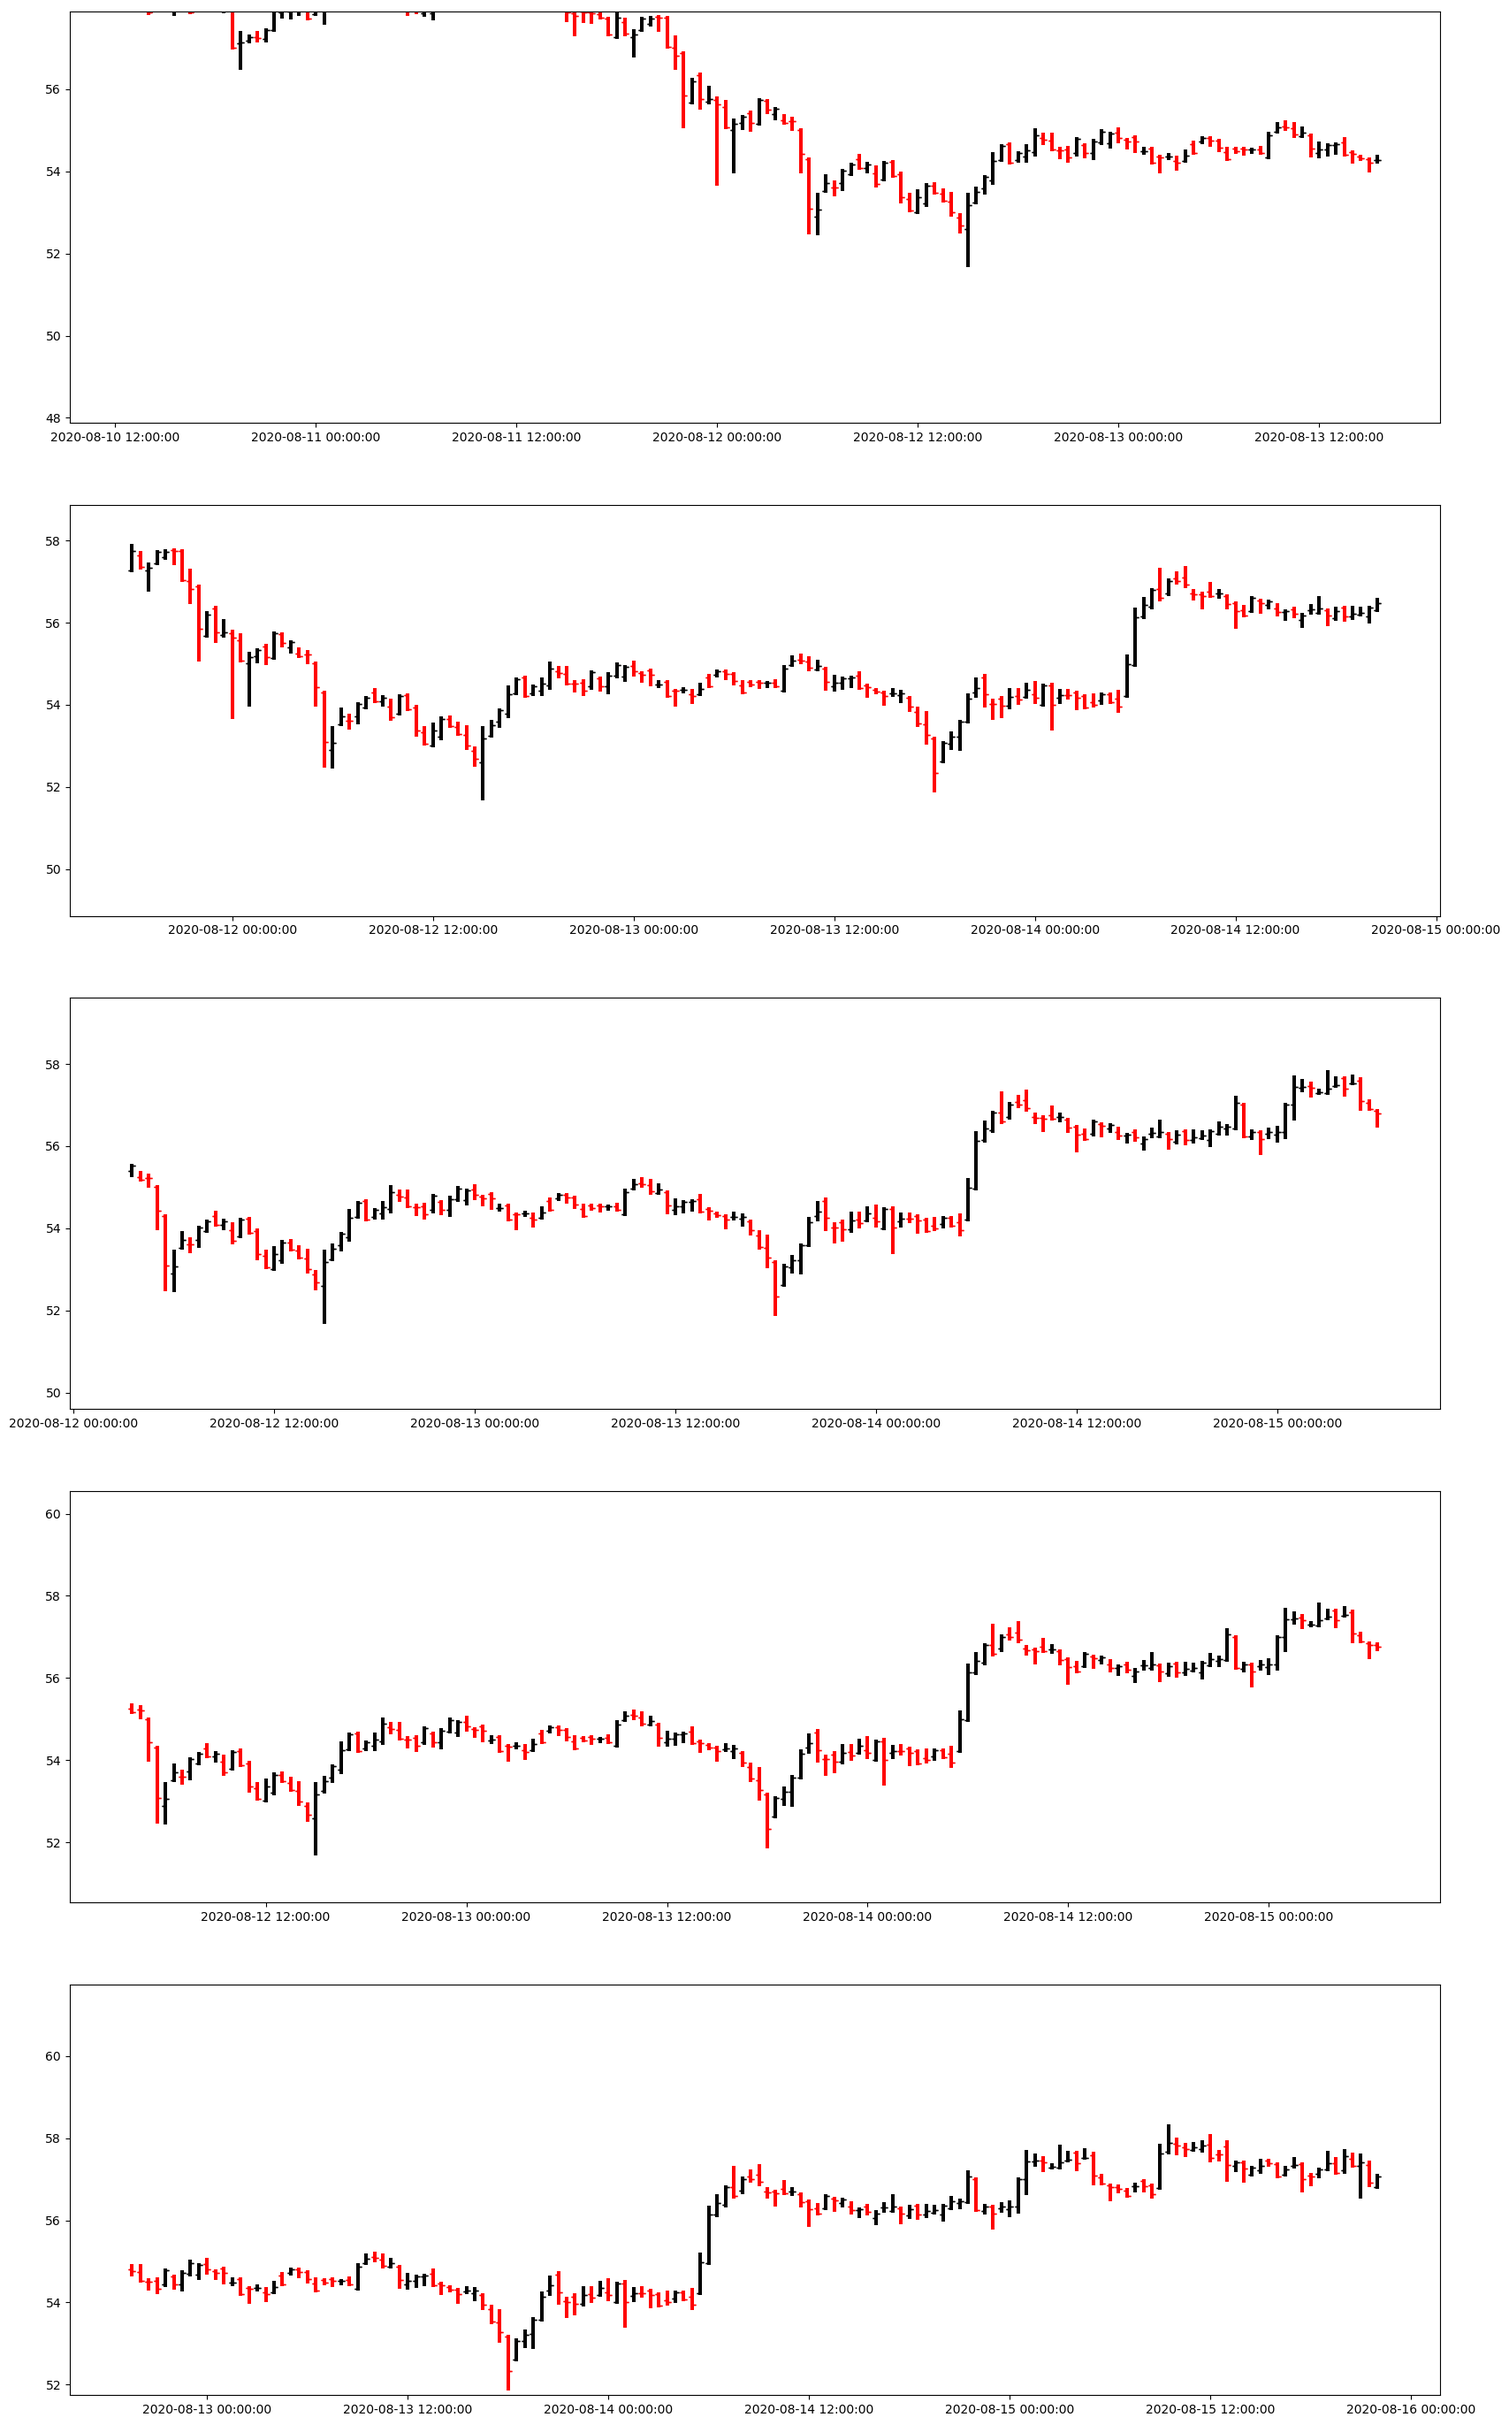
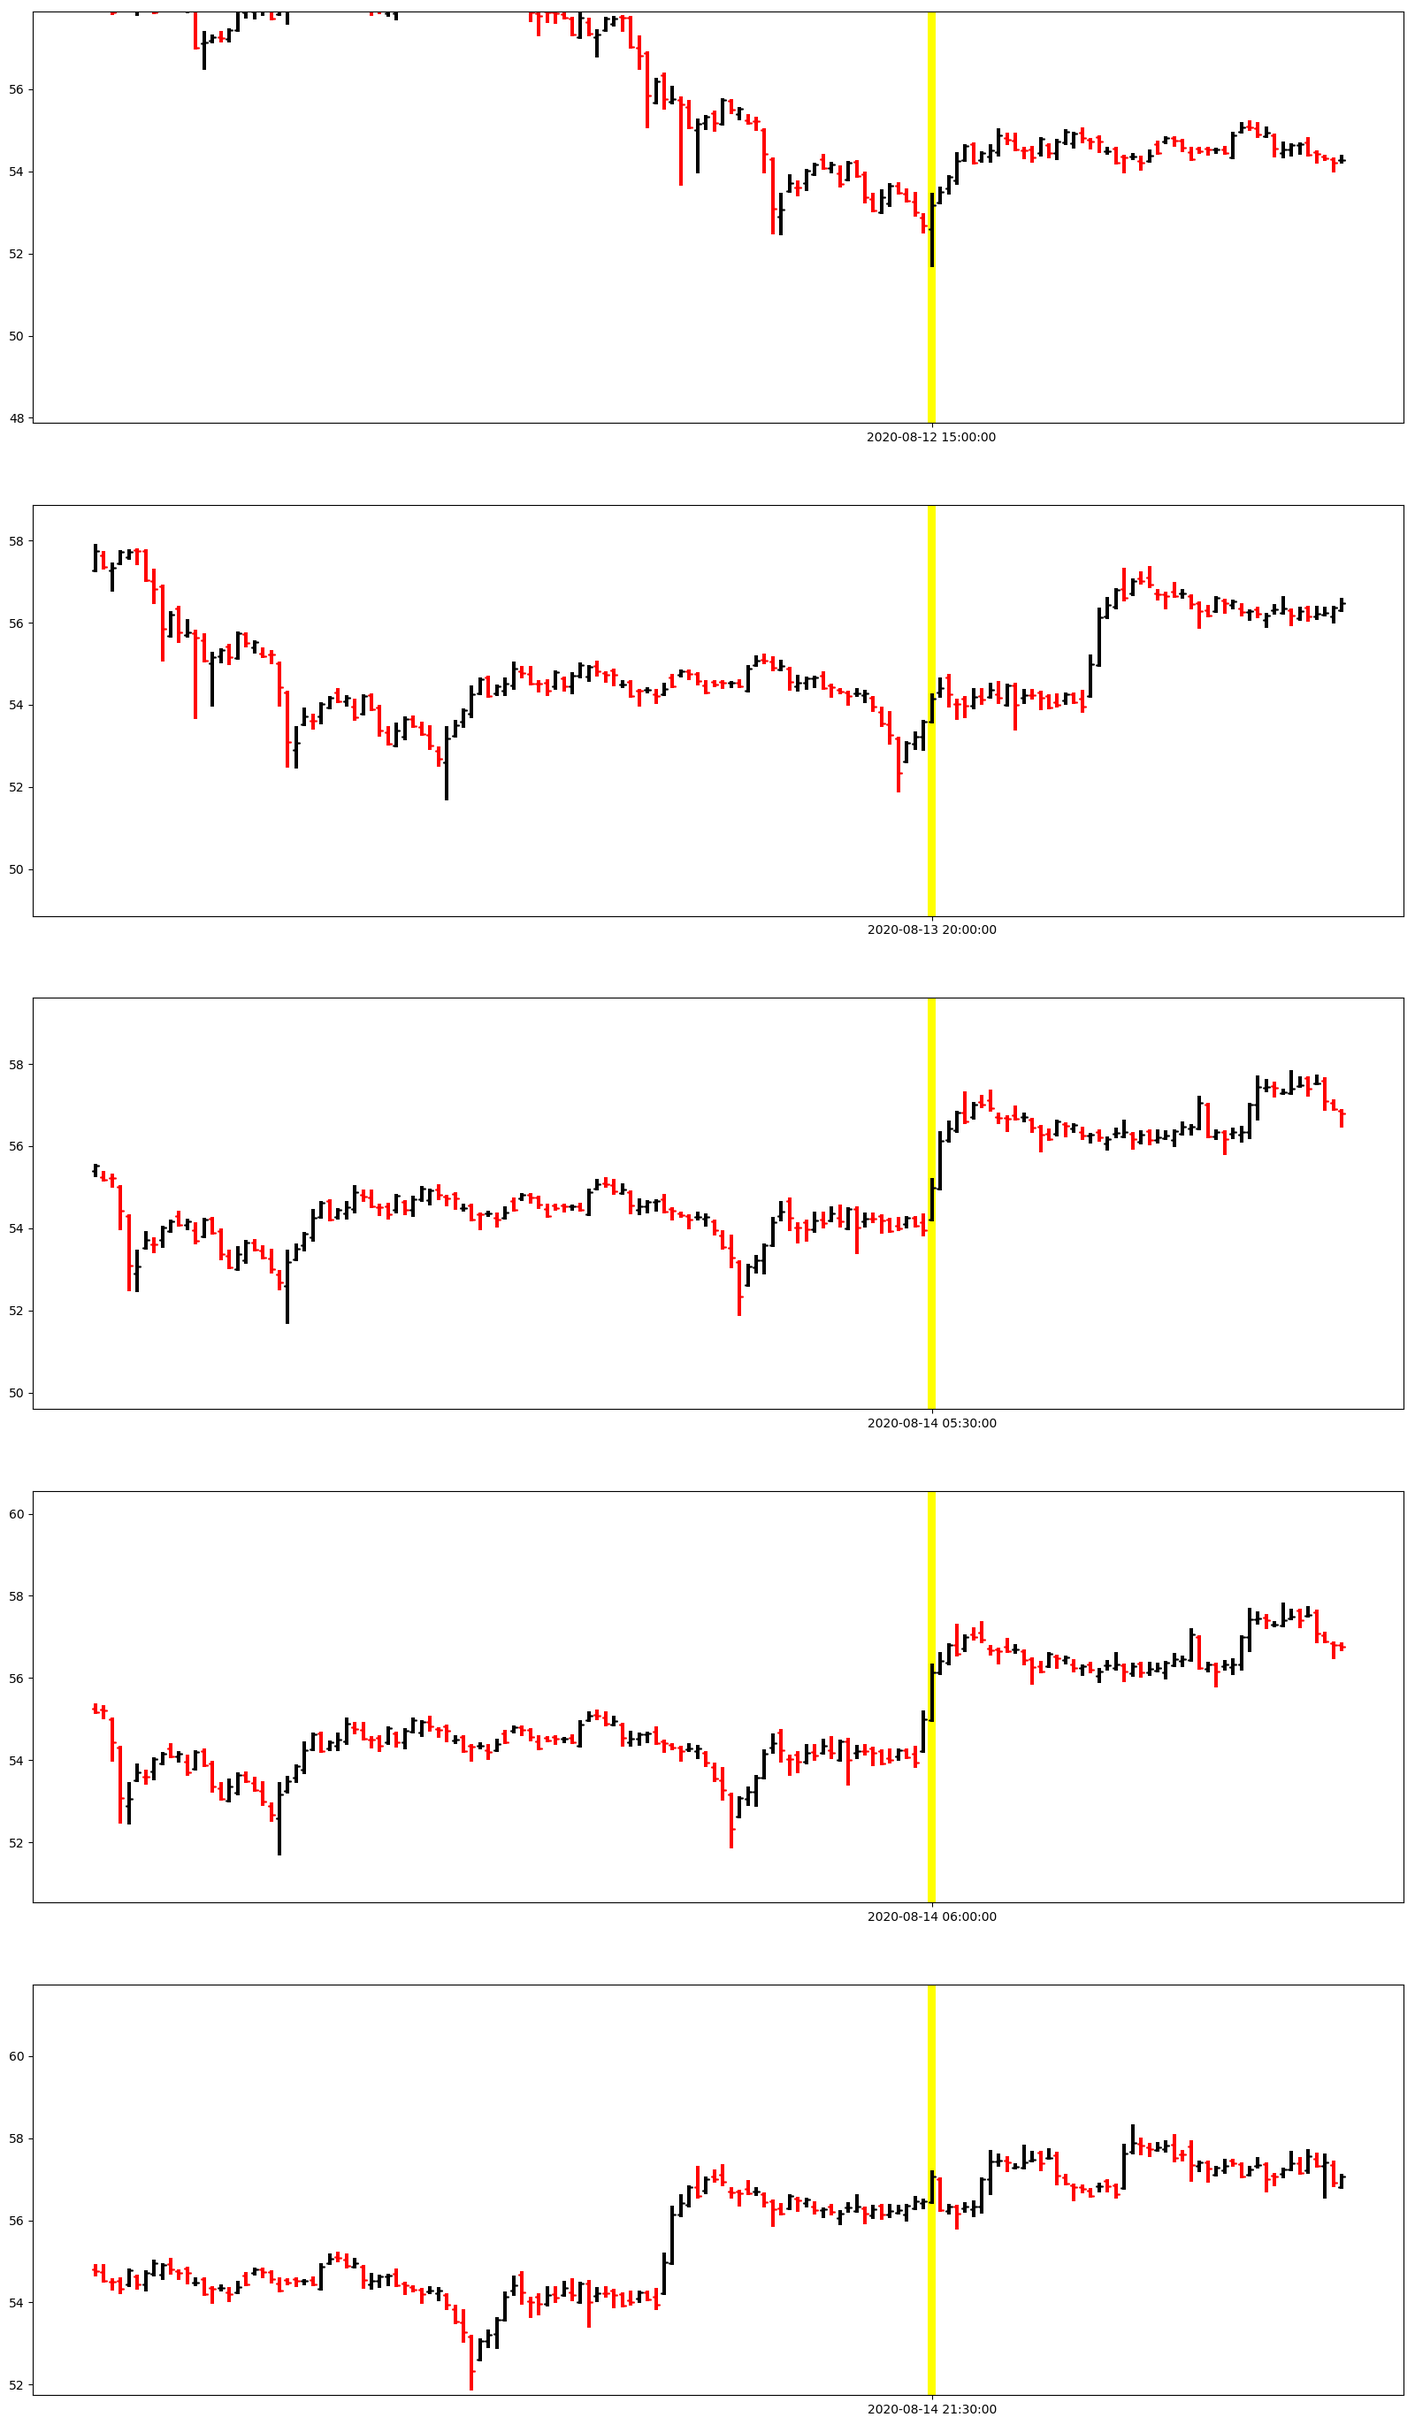
각 차트에서 문제의 봉을 강조해서 표시해주기

diff --git a/analyze_correlation.py b/analyze_correlation.py
@@ -7,6 +7,9 @@ from mpl_finance import plot_day_summary_ohlc
 from loader import retrieve_polo
 from datetime import datetime
 
+def mask_h(plt, x1, x2, min_y, max_y, color, alpha):
+    return plt.Rectangle((x1, min_y), x2 - x1, max_y - min_y, linewidth=0, alpha=alpha, edgecolor=color, facecolor=color)
+
 segment = retrieve_polo('USDT_LTC', 30, '2020-08-10', '2020-08-16') # 요구된 봉 데이터를 Poloniex 거래소 API로 읽어와서 n x 6 크기의 numpy array로 만들어주는 함수
 
 purge_percent_threshold = 1
@@ -46,6 +49,10 @@ for i in range(segment.shape[0]):
             ax = fig.add_subplot(gs_all[snapshots_count], ylim=(min_y, max_y))
 
             plot_day_summary_ohlc(ax, ohlc[begin:end])
+            plt.xticks([dates[i]], rotation=0)
+            ax.add_patch(mask_h(plt, dates[i] - (30/(24*60)/2), dates[i] + (30/(24*60)/2), min_y, max_y, 'yellow', 1.0))
+            plot_day_summary_ohlc(ax, ohlc[begin:end])
+
             ax.xaxis.set_major_formatter(mdates.DateFormatter('%Y-%m-%d %H:%M:%S'))
 
             snapshots_count += 1
